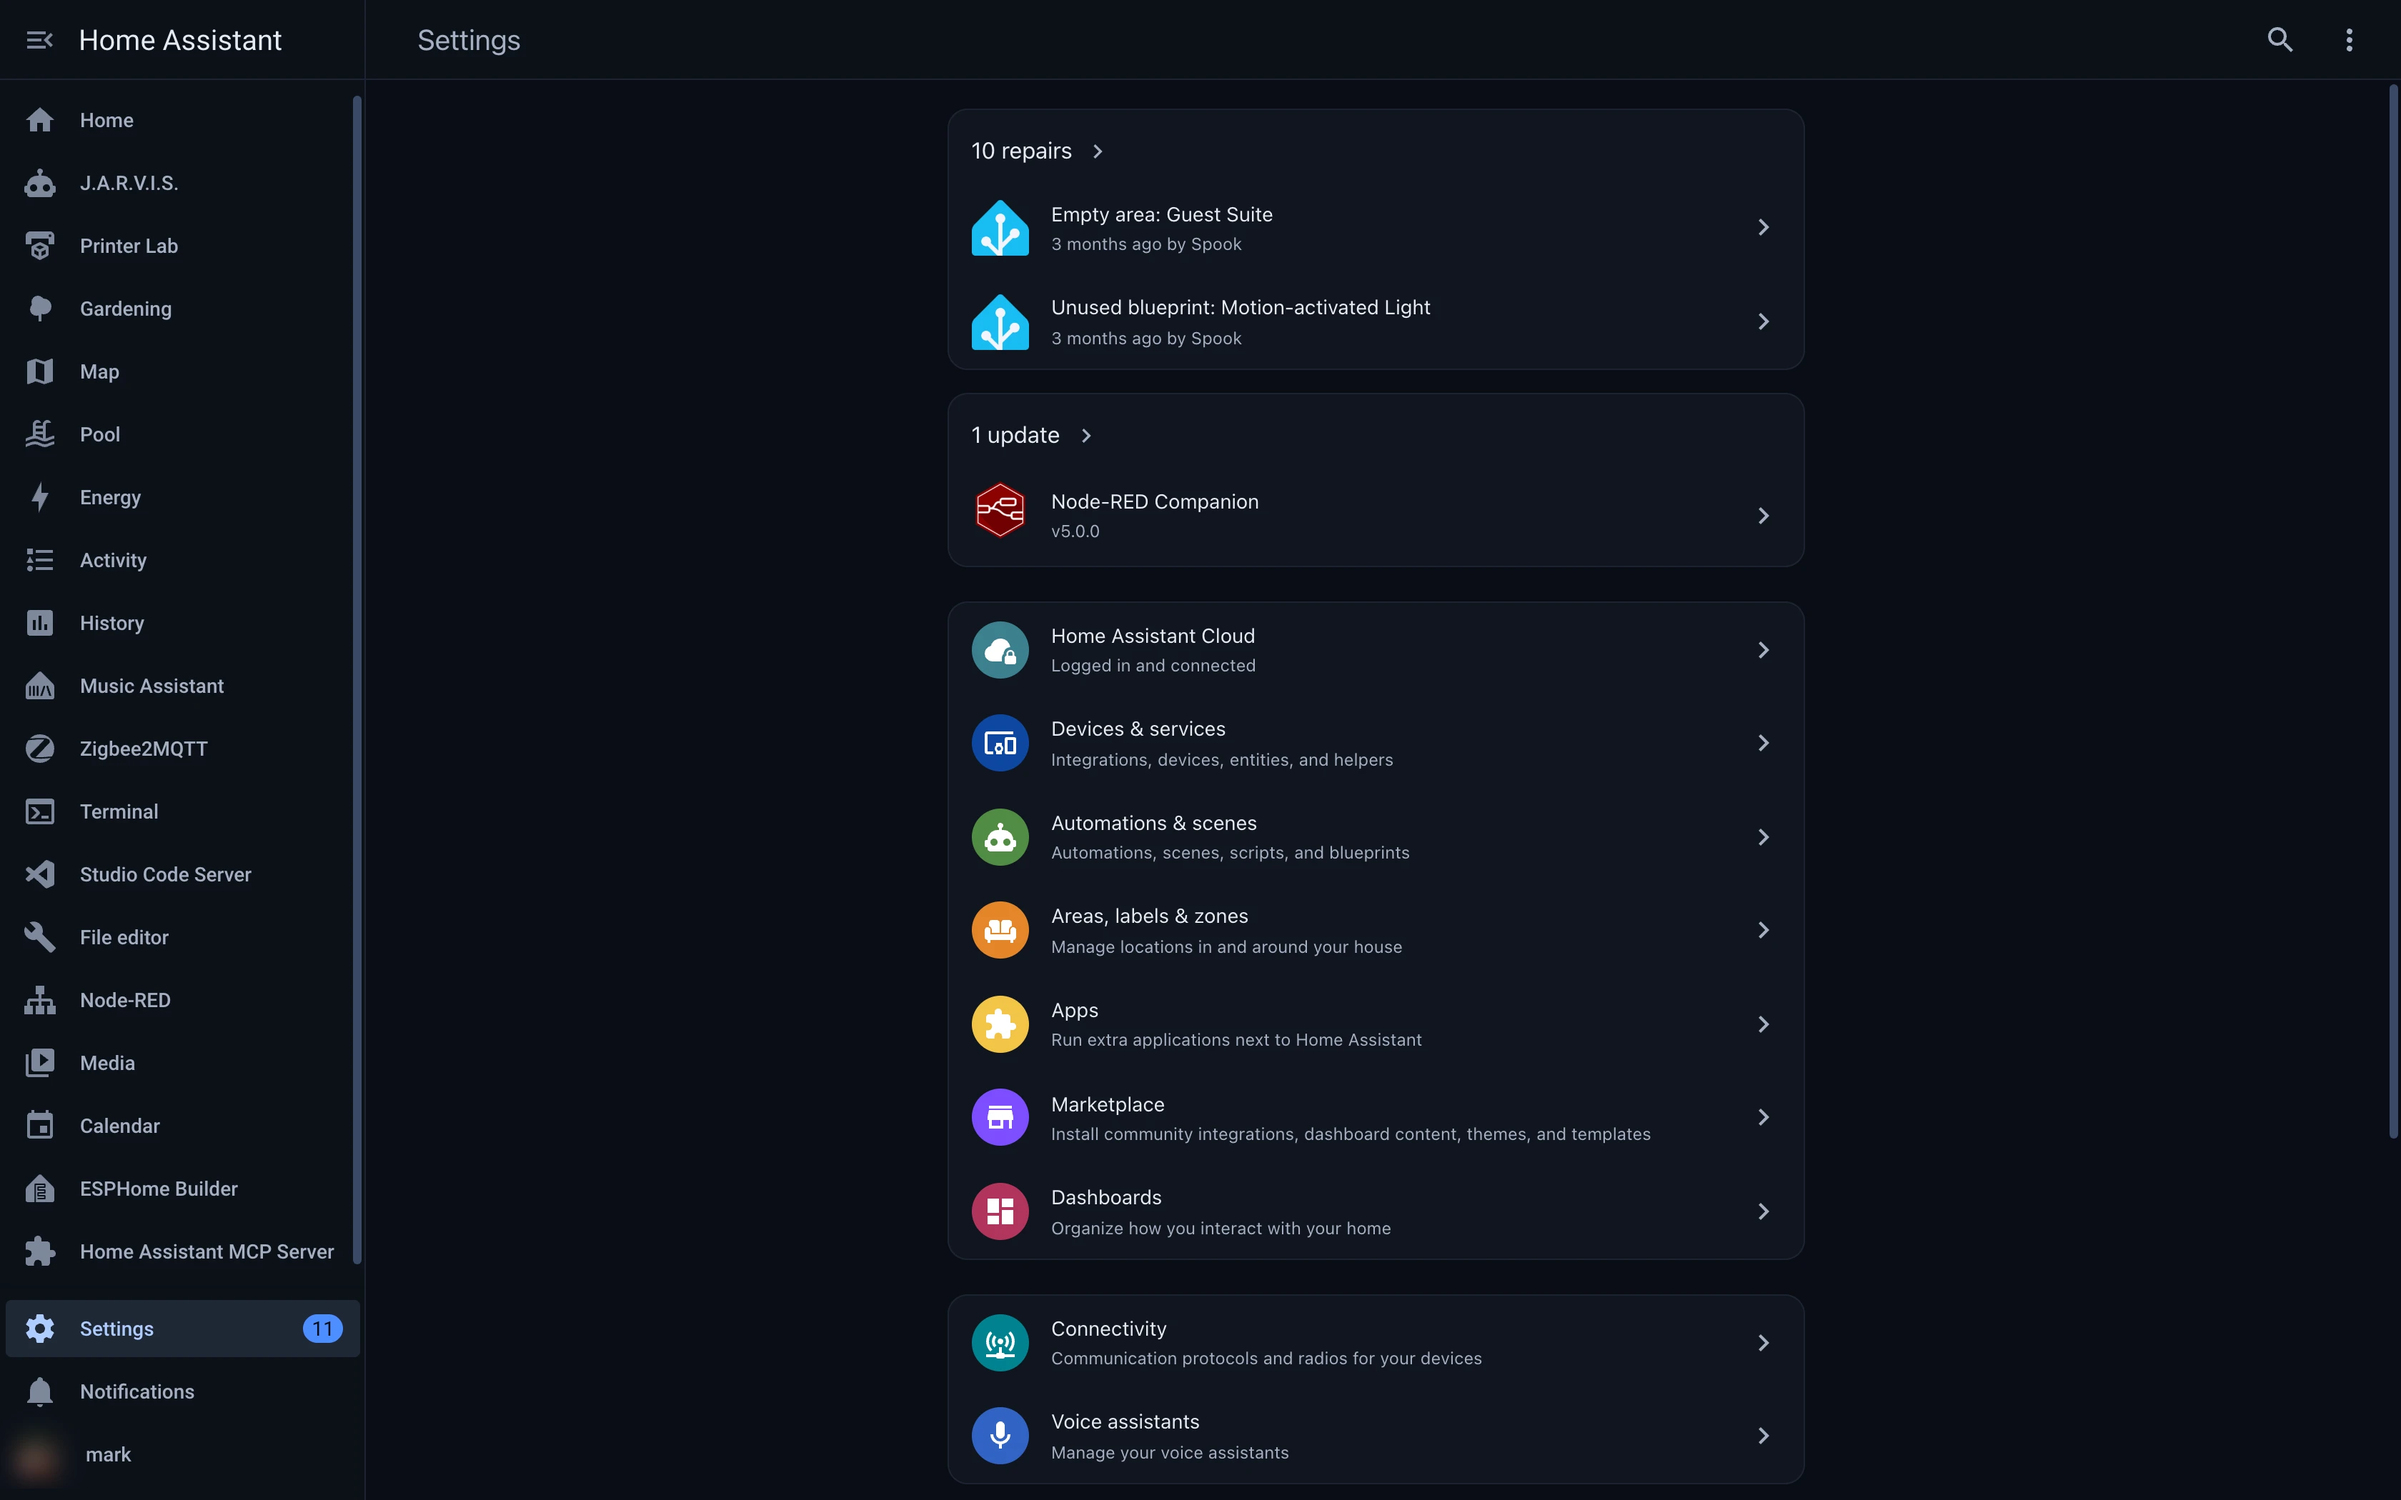
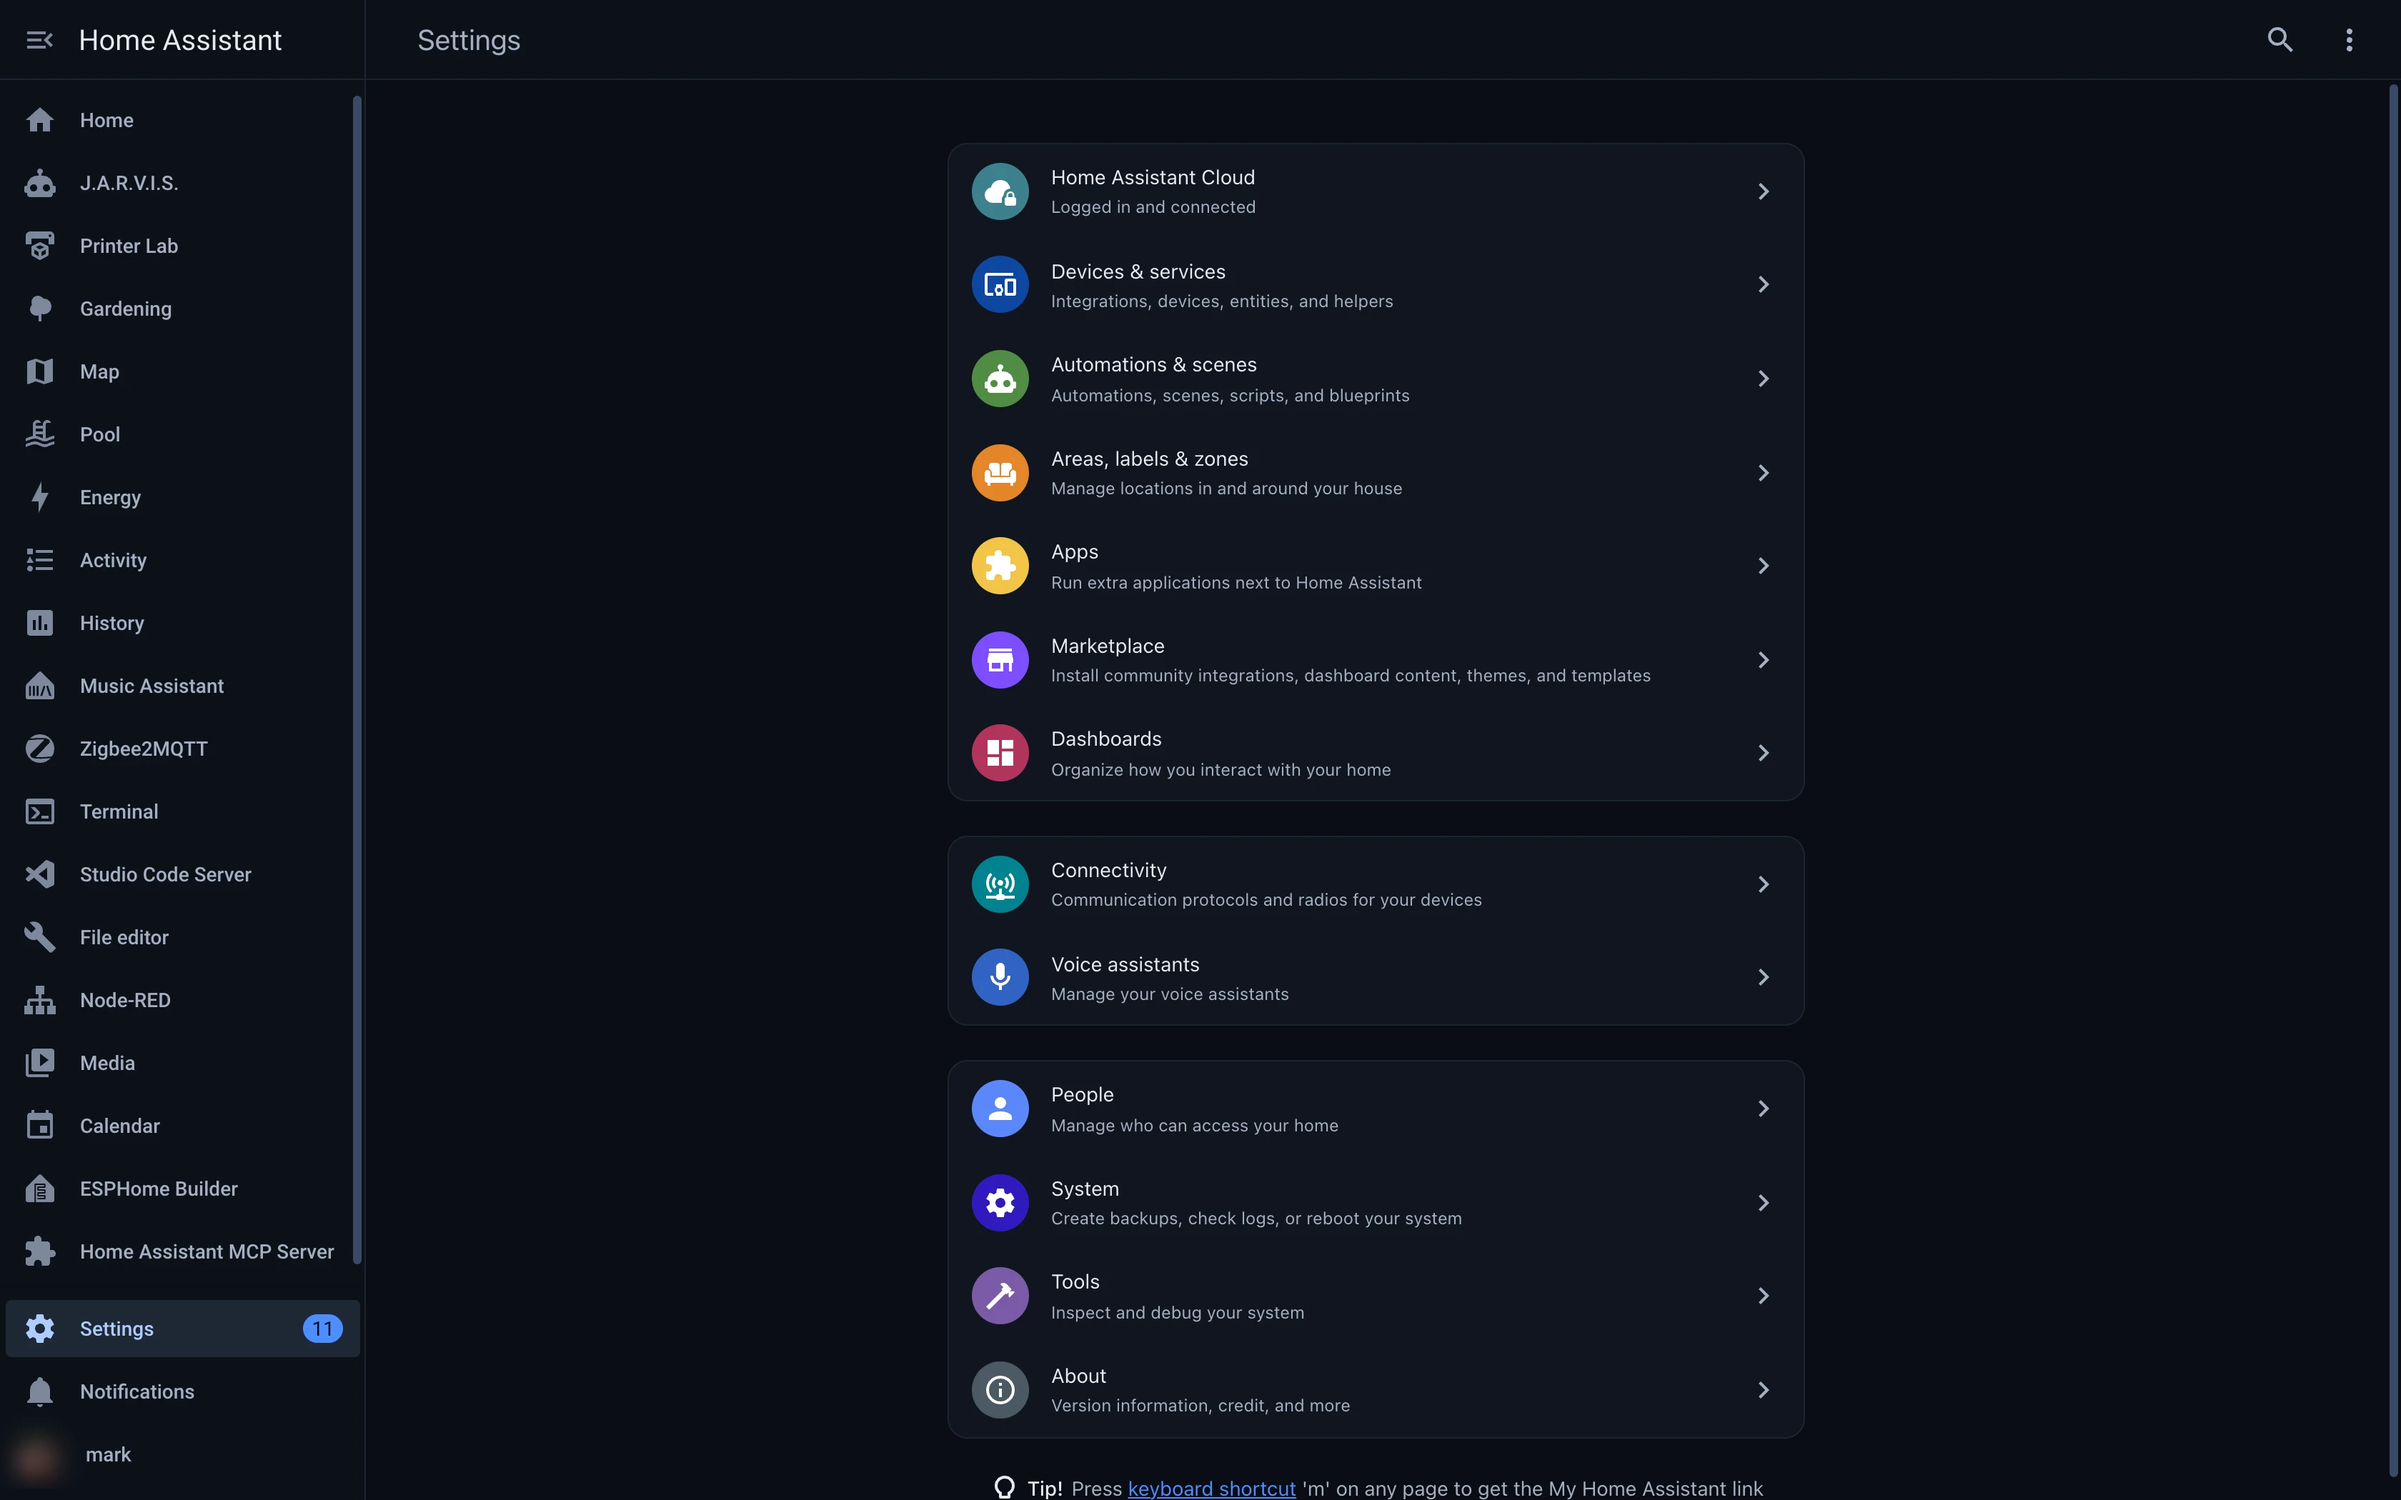
Retake the Settings screenshots without Repairs
The Settings pair now leaves out the Repairs and Updates cards, which
are specific to the house it was taken on. Version 1.0.2; the theme
itself is unchanged.

diff --git a/CHANGELOG.md b/CHANGELOG.md
@@ -1,5 +1,10 @@
 # Changelog
 
+## 1.0.2
+
+- Cleaner Settings screenshots, without the Repairs and Updates cards. The theme itself
+  is unchanged.
+
 ## 1.0.1
 
 - New README screenshots: a larger window with the sidebar collapsed on dashboards, and
